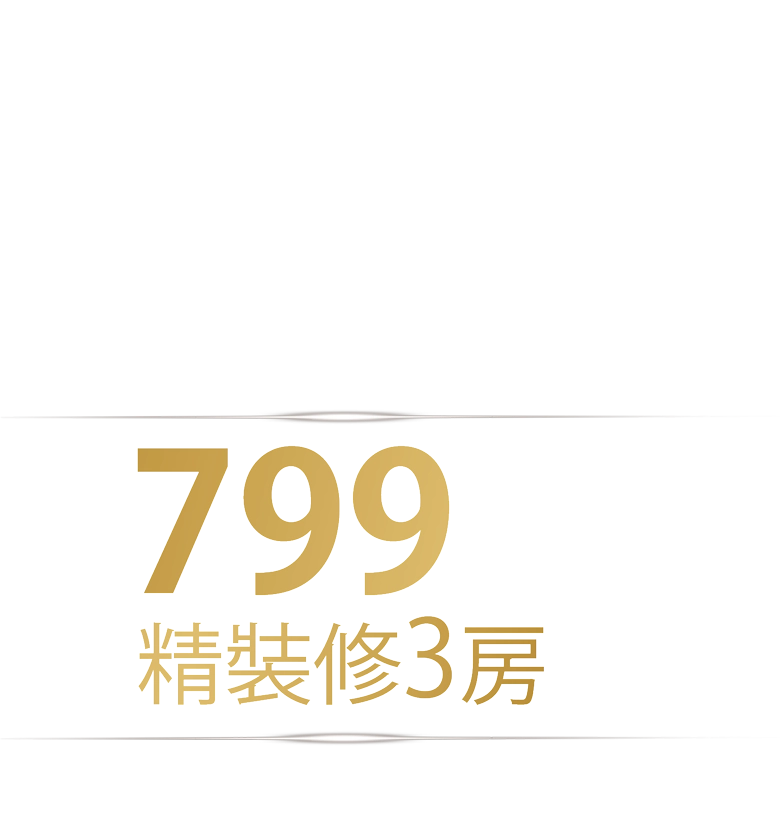
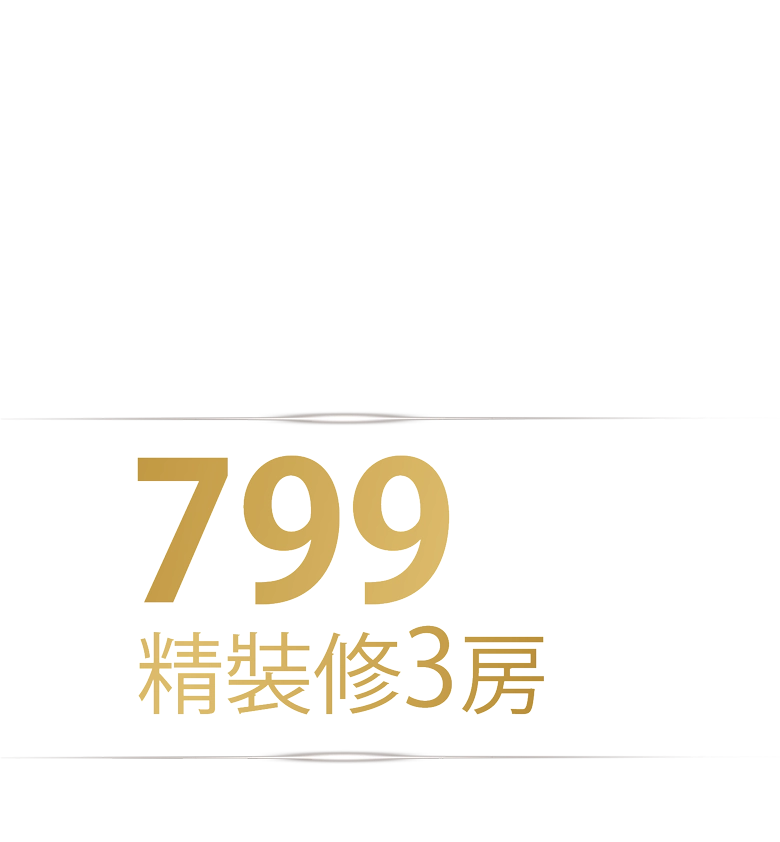
OK修改初搞

diff --git a/src/section/s1.vue b/src/section/s1.vue
@@ -155,7 +155,7 @@
 
   .s1-40w {
     position: absolute;
-    bottom: 0;
+    bottom: -1px;
     left: 0;
     width: 100%;
     text-align: right;
@@ -241,7 +241,7 @@
   position: absolute;
   width: auto;
   max-height:50vh;
-  top: 8vh;
+  top: 7vh;
   margin-left: 12vw;
 }
  
@@ -287,7 +287,7 @@
 
     .s1-40w-m {
       position: absolute;
-      bottom: 0;
+      bottom: -1px;
       left: 0;
       width: 100%;
       text-align: right;
@@ -303,7 +303,7 @@
 
 }
 
-@media screen and (max-width: 768px) and (min-aspect-ratio: 607 / 867) {
+@media screen and (max-width: 768px) and (min-aspect-ratio: 522 / 797) {
 
   .s1 .logo-m {
     display: none !important;

diff --git a/src/pages/Home.vue b/src/pages/Home.vue
@@ -11,7 +11,7 @@
   <!--loading end-->
   <Nav v-if="config.showNav" />
   <!-- e5005c -->
-  <div class="home overflow-hidden font-['Noto_Sans_TC'] bg-[#fff100]">
+  <div class="home overflow-hidden font-['Noto_Sans_TC'] bg-[#f9f3f1]">
     <h1 style="display:none;">佳鋐首耀</h1>
     <img class="og" src="@/section/og.jpg" alt="og" >
     <S1 />
